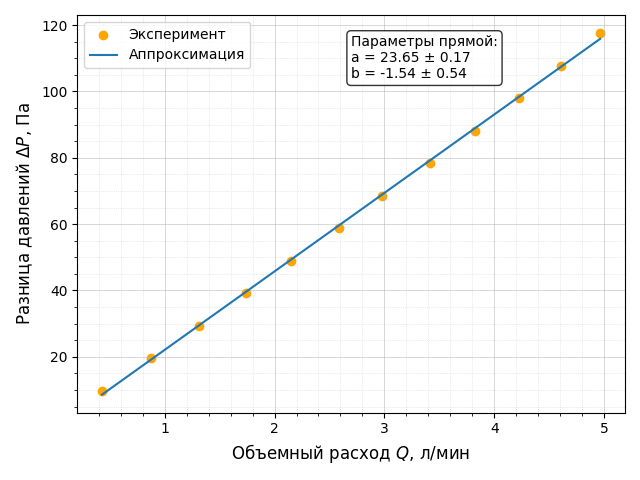
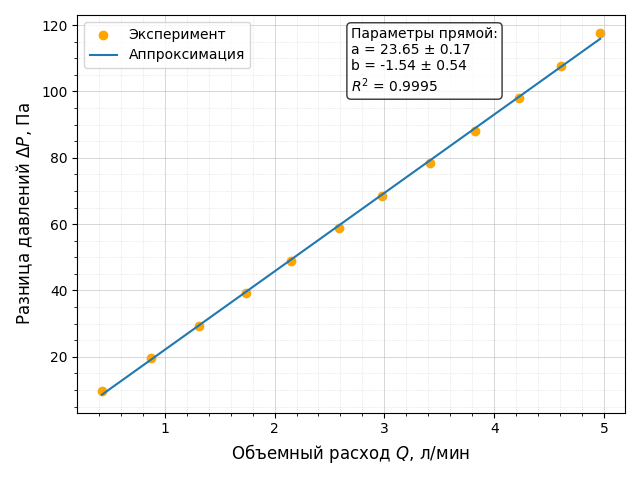
1 version 131

Changed region(s): [[0.5312, 0.0312, 0.7812, 0.2188]]

diff --git a/2sem/131/dpQ.py b/2sem/131/dpQ.py
@@ -5,6 +5,15 @@ from scipy.optimize import curve_fit
 def linear_model(x, a, b):
     return a * x + b
 
+def calculate_r_squared(y_data, y_fit):
+    """
+    Вычисляет коэффициент детерминации R^2.
+    """
+    ss_res = np.sum((y_data - y_fit) ** 2)  # Сумма квадратов остатков
+    ss_tot = np.sum((y_data - np.mean(y_data)) ** 2)  # Общая сумма квадратов
+    r_squared = 1 - (ss_res / ss_tot)  # Коэффициент детерминации
+    return r_squared
+
 data1 = np.loadtxt('2sem/131/data/1.txt')  
 # data2 = np.loadtxt('data/1.txt')  
 # data3 = np.loadtxt('data/1.txt')  
@@ -29,14 +38,14 @@ params_laminar_1, covariance_laminar_1 = curve_fit(linear_model, x1_laminar, y1_
 a1_laminar, b1_laminar = params_laminar_1
 a_err1_laminar, b_err1_laminar = np.sqrt(np.diag(covariance_laminar_1))
 y_fit_laminar_1 = linear_model(x1_laminar,a1_laminar,b1_laminar)
-
+r1_squared_laminar = calculate_r_squared(y1_laminar,y_fit_laminar_1)
 
 params_turbulent_1, covariance_turbulent_1 = curve_fit(linear_model, x1_turbulent, y1_turbulent)
 
 a1_turbulent, b1_turbulent = params_turbulent_1
 a_err1_turbulent, b_err1_turbulent = np.sqrt(np.diag(covariance_turbulent_1))
 y_fit_turbulent_1 = linear_model(x1_turbulent,a1_turbulent,b1_turbulent)
-
+r1_squared_turbulent = calculate_r_squared(y1_turbulent,y_fit_turbulent_1)
 
 # x2 = data2[:, 0]
 # y2 = data2[:, 1] 
@@ -53,20 +62,22 @@ plt.figure()
 text_box_laminar_1 = (
     f"Параметры прямой:\n"
     f"a = {a1_laminar:.2f} ± {a_err1_laminar:.2f}\n"
-    f"b = {b1_laminar:.2f} ± {b_err1_laminar:.2f}"
+    f"b = {b1_laminar:.2f} ± {b_err1_laminar:.2f}\n"
+    f"$R^2$ = {r1_squared_laminar:.4f}"
 )
 
 text_box_turbulent_1 = (
     f"Параметры прямой:\n"
     f"a = {a1_turbulent:.2f} ± {a_err1_turbulent:.2f}\n"
-    f"b = {b1_turbulent:.2f} ± {b_err1_turbulent:.2f}"
+    f"b = {b1_turbulent:.2f} ± {b_err1_turbulent:.2f}\n"
+    f"$R^2$ = {r1_squared_turbulent:.4f}"
 )
 
-# plt.text(0.5, 0.95, text_box_laminar_1, transform=plt.gca().transAxes, fontsize=10, verticalalignment='top', bbox=dict(boxstyle='round', facecolor='white', alpha=0.8))
+# plt.text(0.5, 0.97, text_box_laminar_1, transform=plt.gca().transAxes, fontsize=10, verticalalignment='top', bbox=dict(boxstyle='round', facecolor='white', alpha=0.8))
 # plt.scatter(x1_laminar, y1_laminar, color='orange', label='Эксперимент')
 # plt.plot(x1_laminar, y_fit_laminar_1, label='Аппроксимация')
 
-plt.text(0.5, 0.95, text_box_turbulent_1, transform=plt.gca().transAxes, fontsize=10, verticalalignment='top', bbox=dict(boxstyle='round', facecolor='white', alpha=0.8))
+plt.text(0.5, 0.97, text_box_turbulent_1, transform=plt.gca().transAxes, fontsize=10, verticalalignment='top', bbox=dict(boxstyle='round', facecolor='white', alpha=0.8))
 plt.scatter(x1_turbulent, y1_turbulent, color='orange', label='Эксперимент')
 plt.plot(x1_turbulent, y_fit_turbulent_1, label='Аппроксимация')
 
